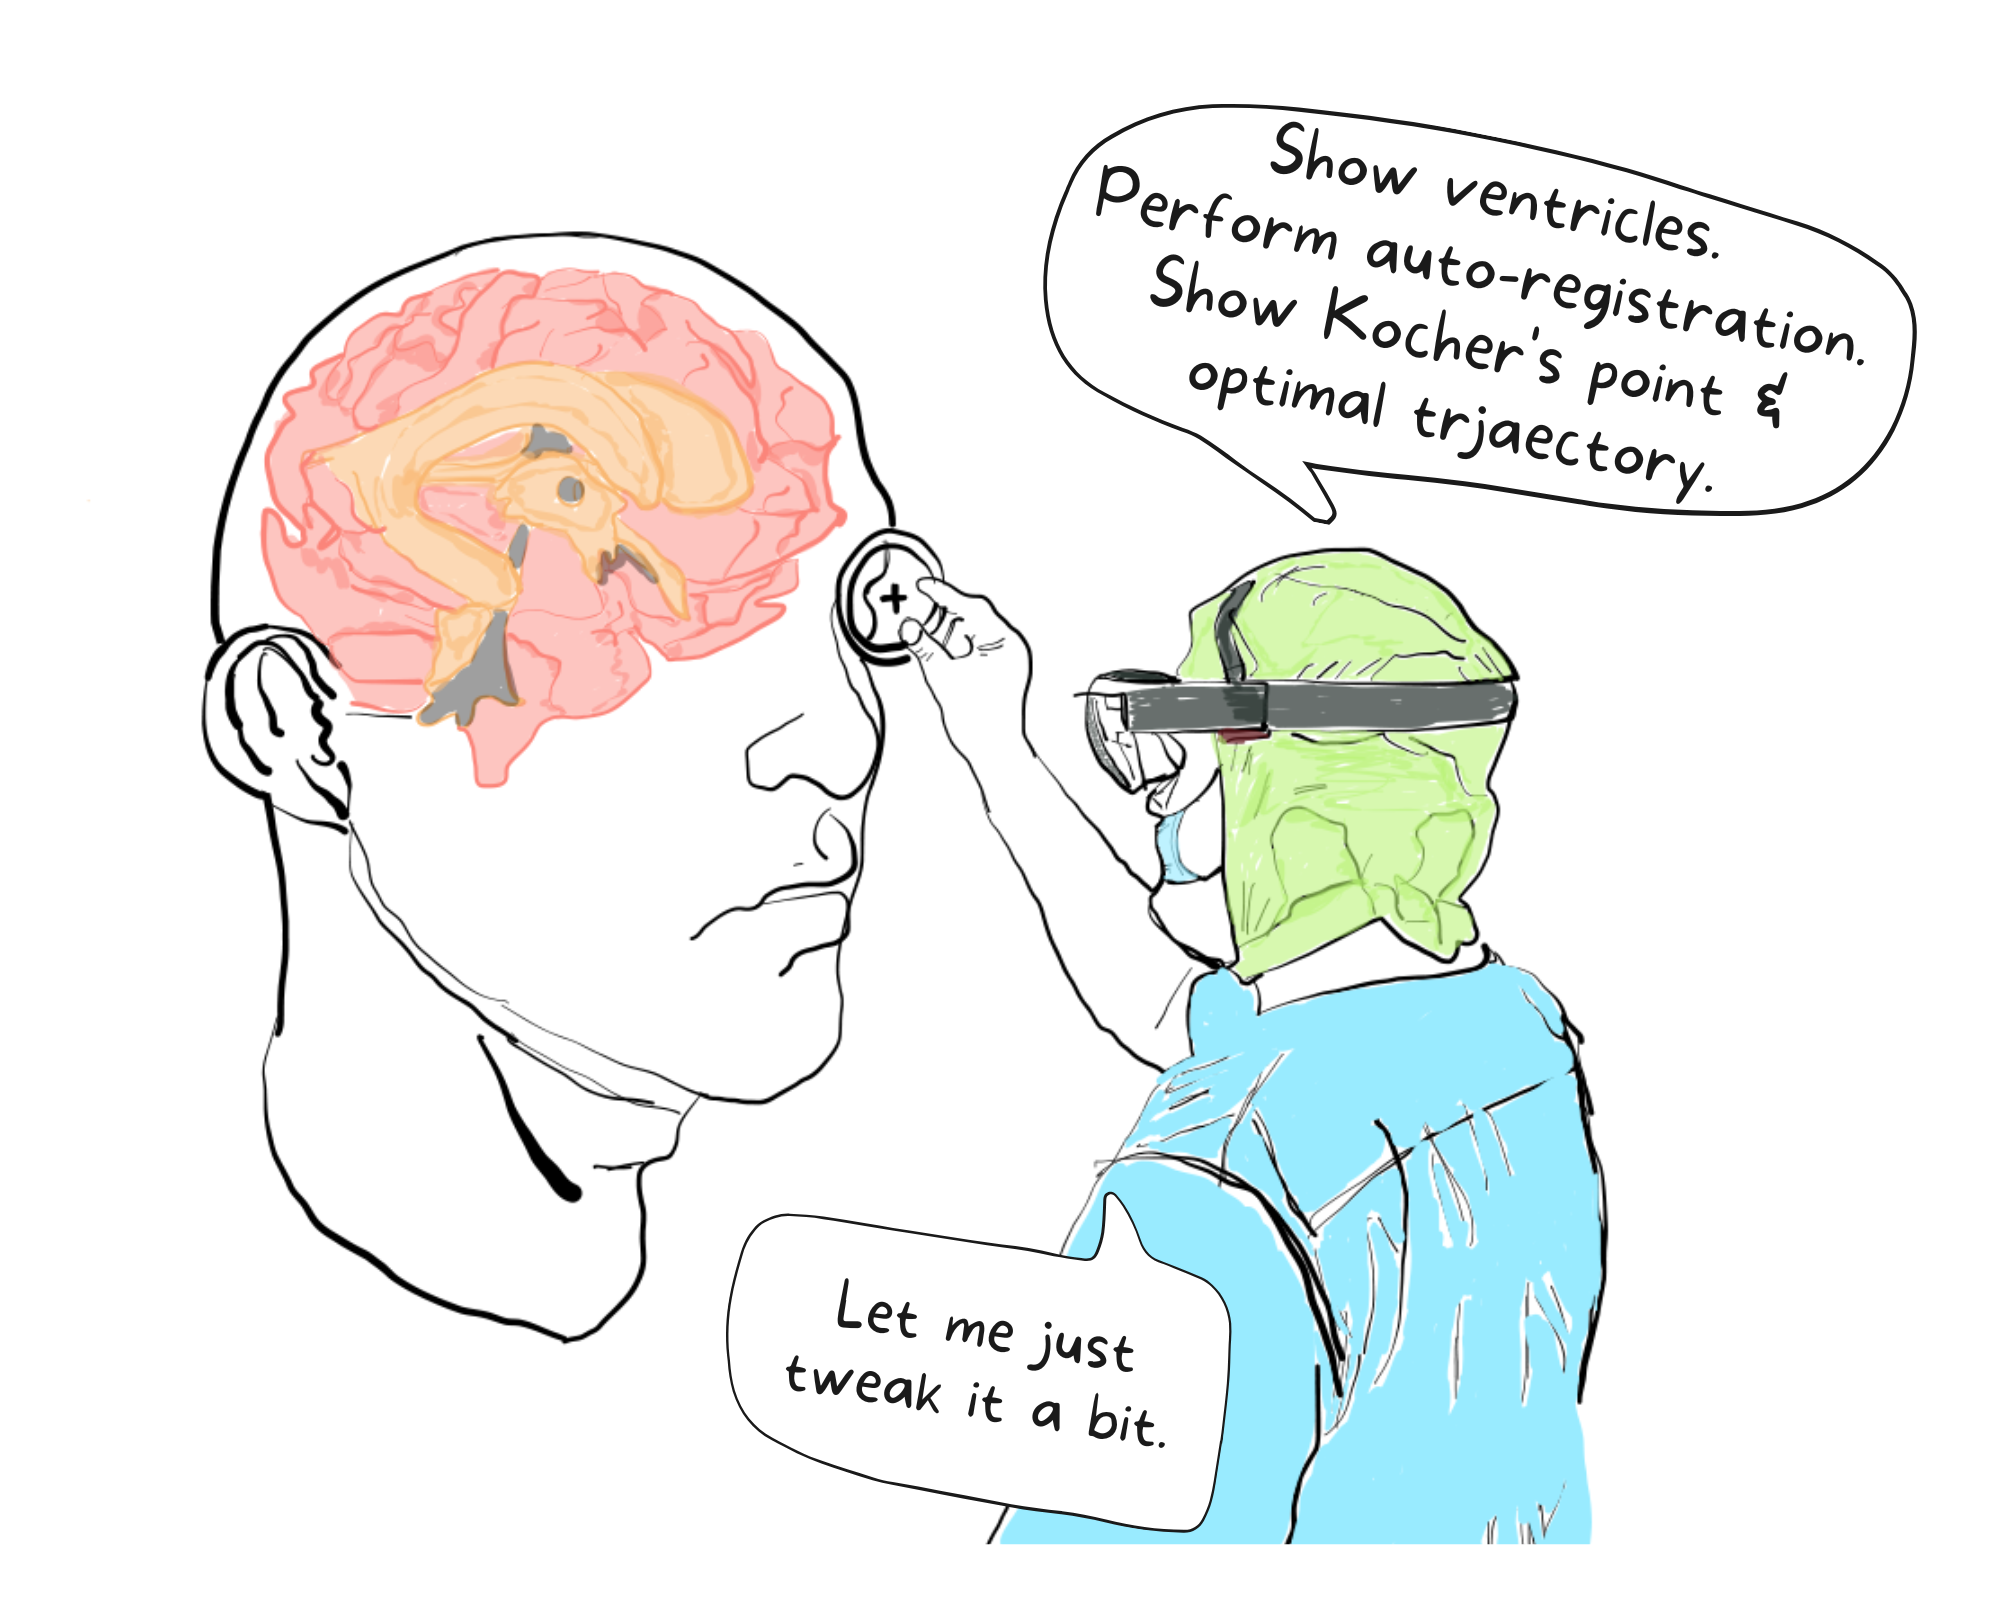
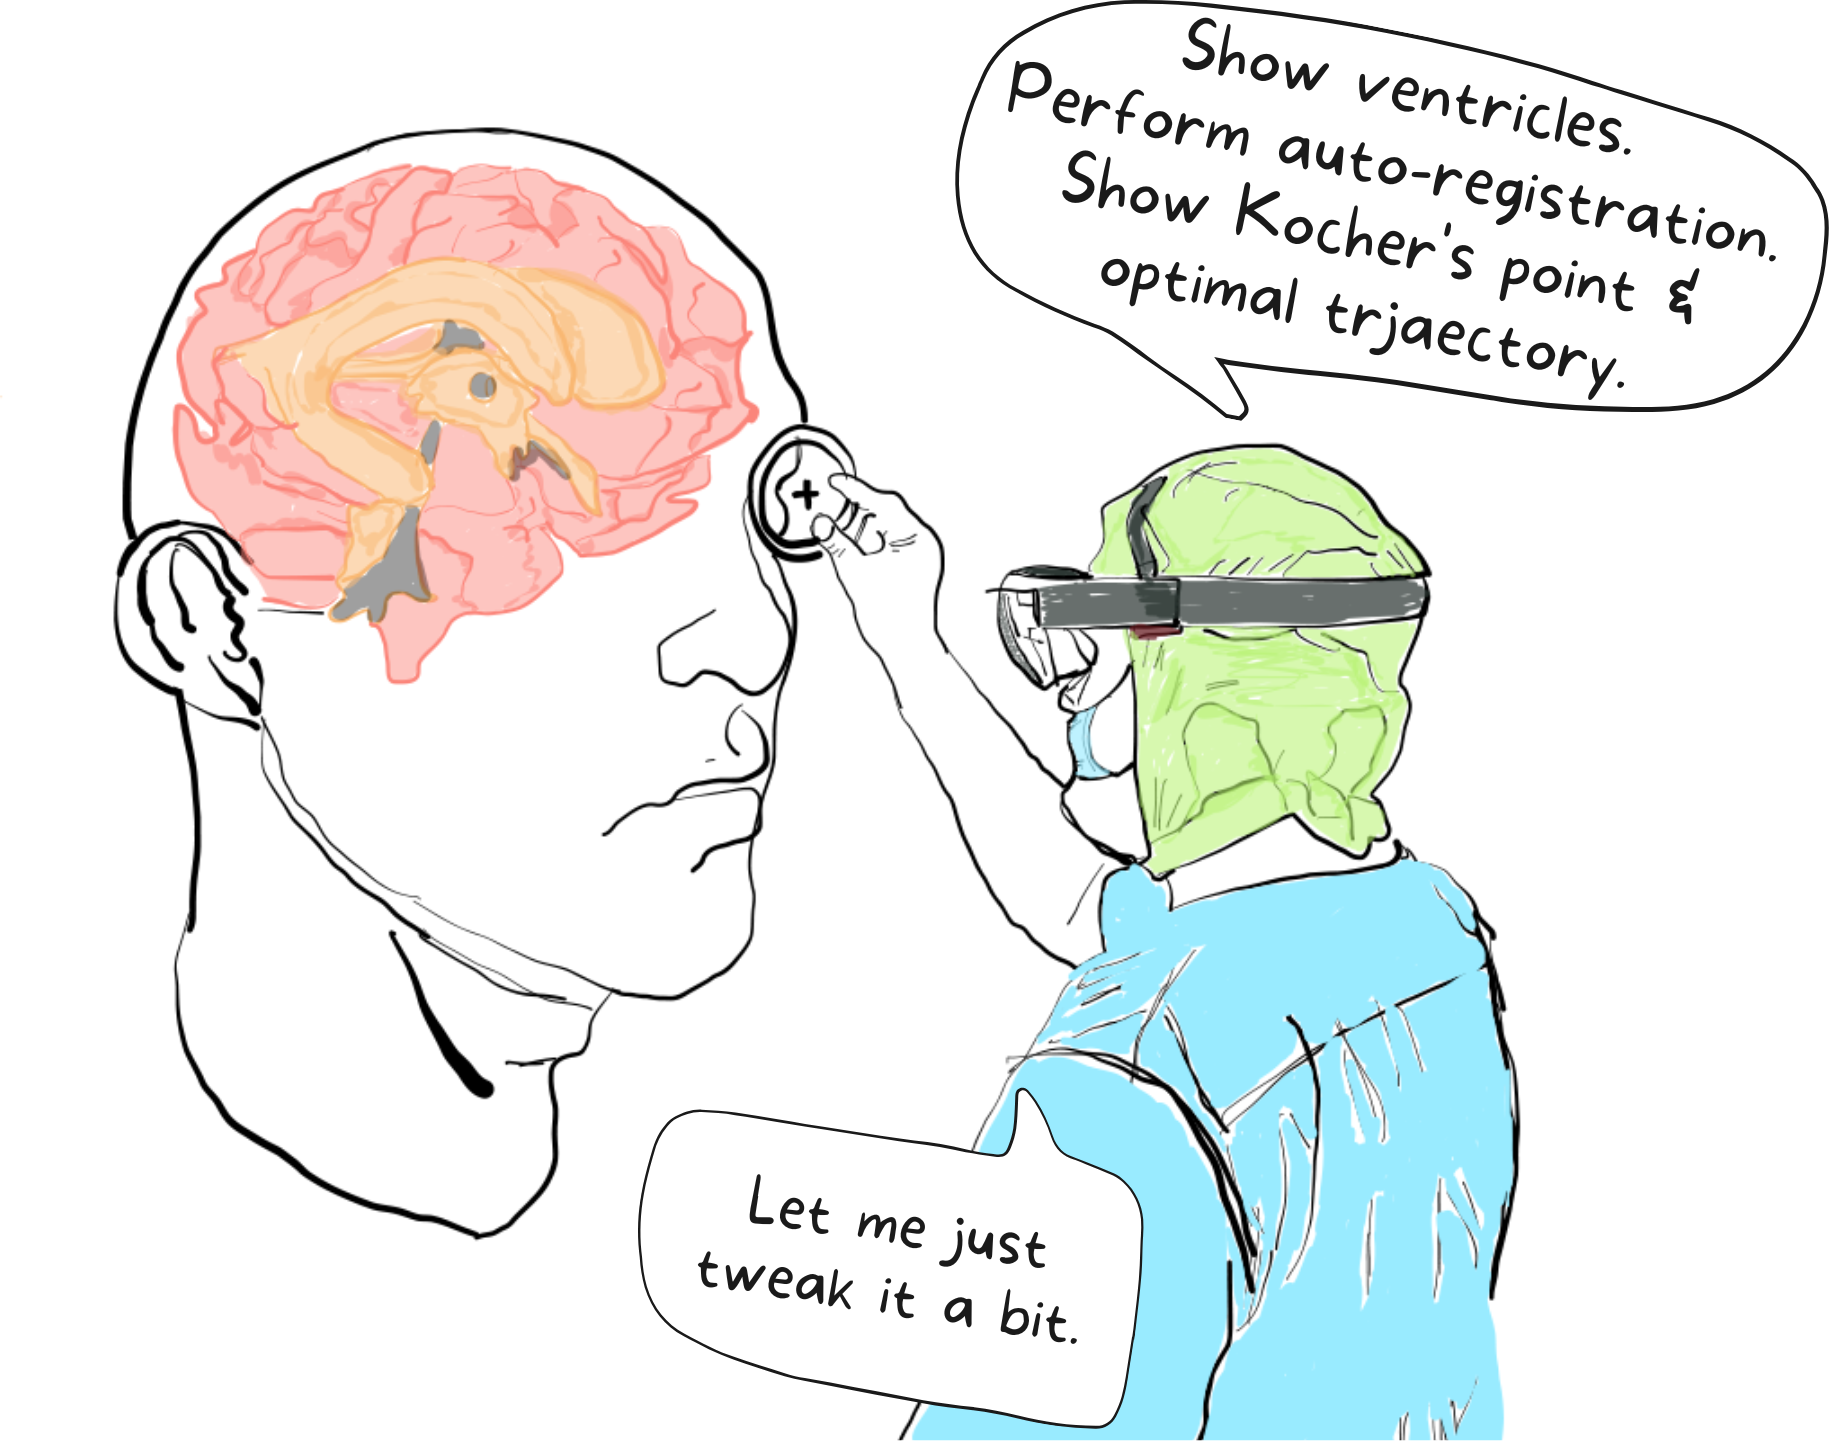
Update website

diff --git a/_pages/research.html b/_pages/research.html
@@ -265,11 +265,8 @@ author_profile: true
     margin-bottom: 0.8em;
   }
   .pub-card-preview {
-    height: 300px;
-    width: auto;
-    max-width: 100%;
-    object-fit: contain;
-    background: #fff;
+    width: 100%;
+    height: auto;
     display: block;
     border-radius: 8px;
   }
